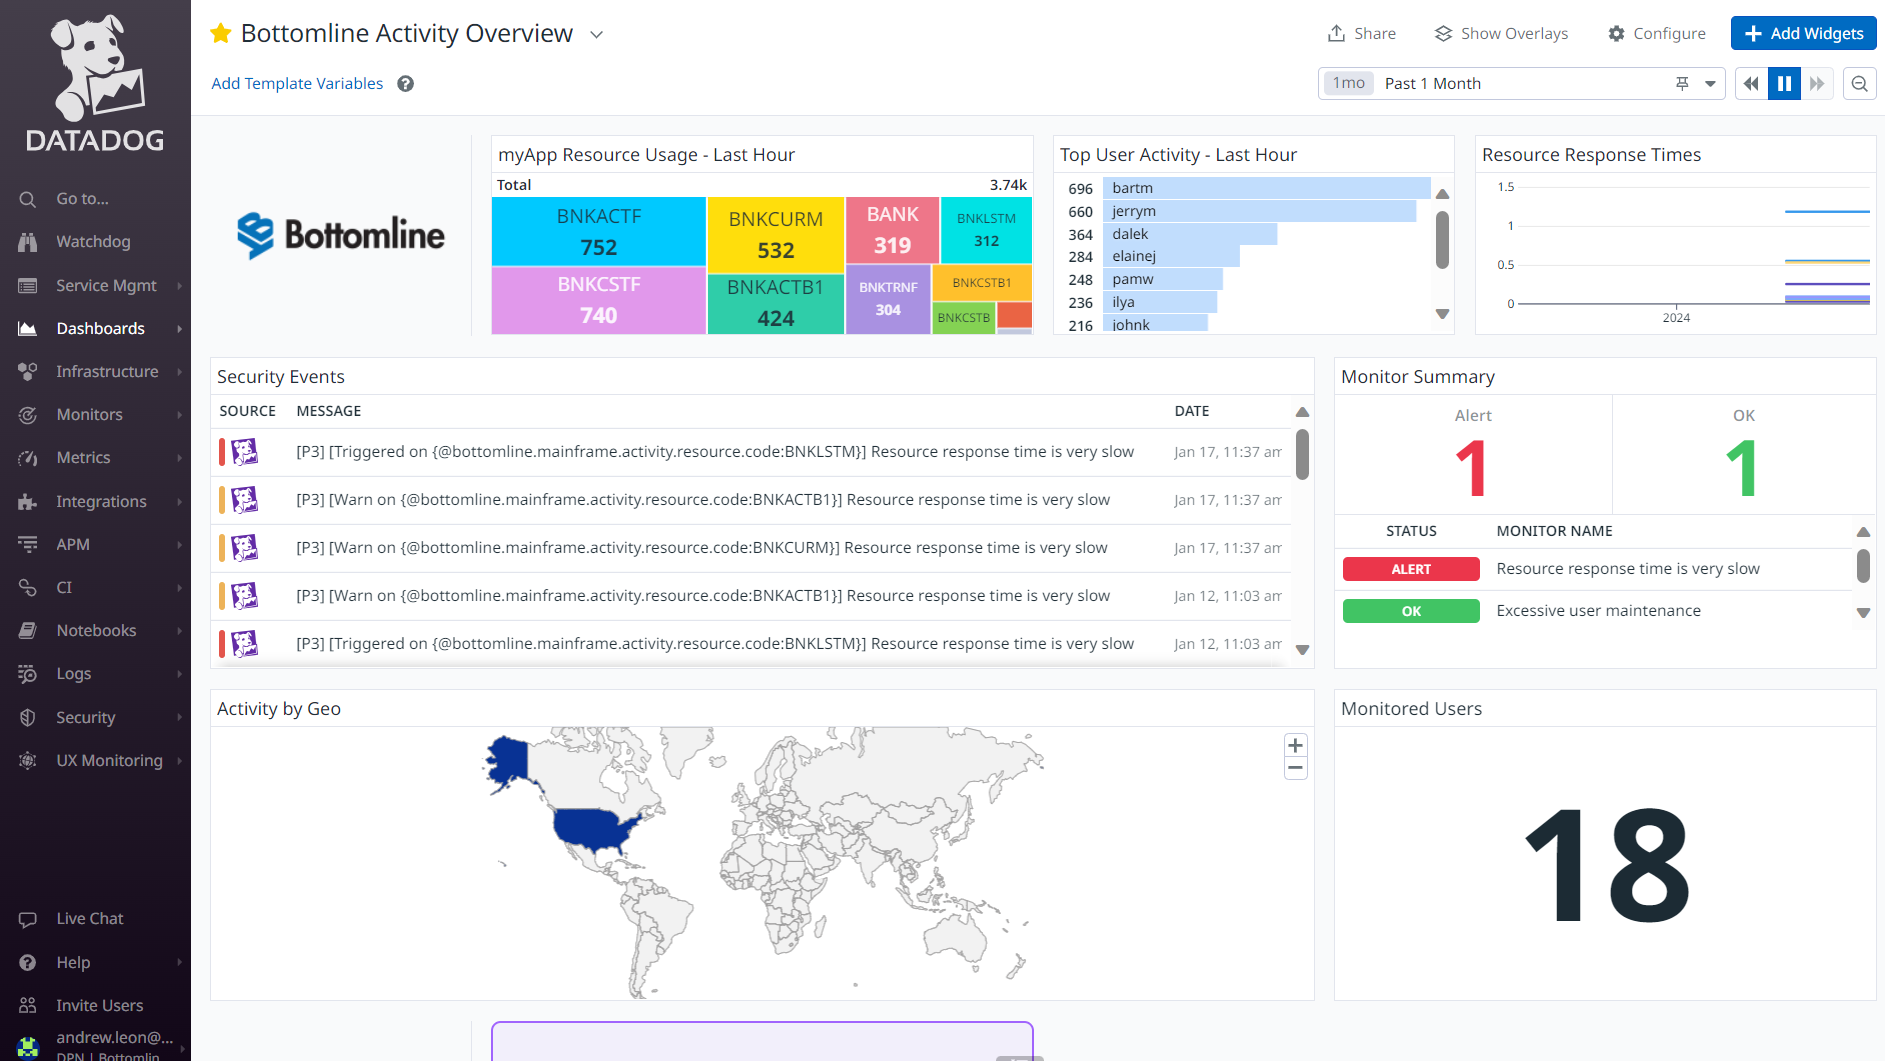
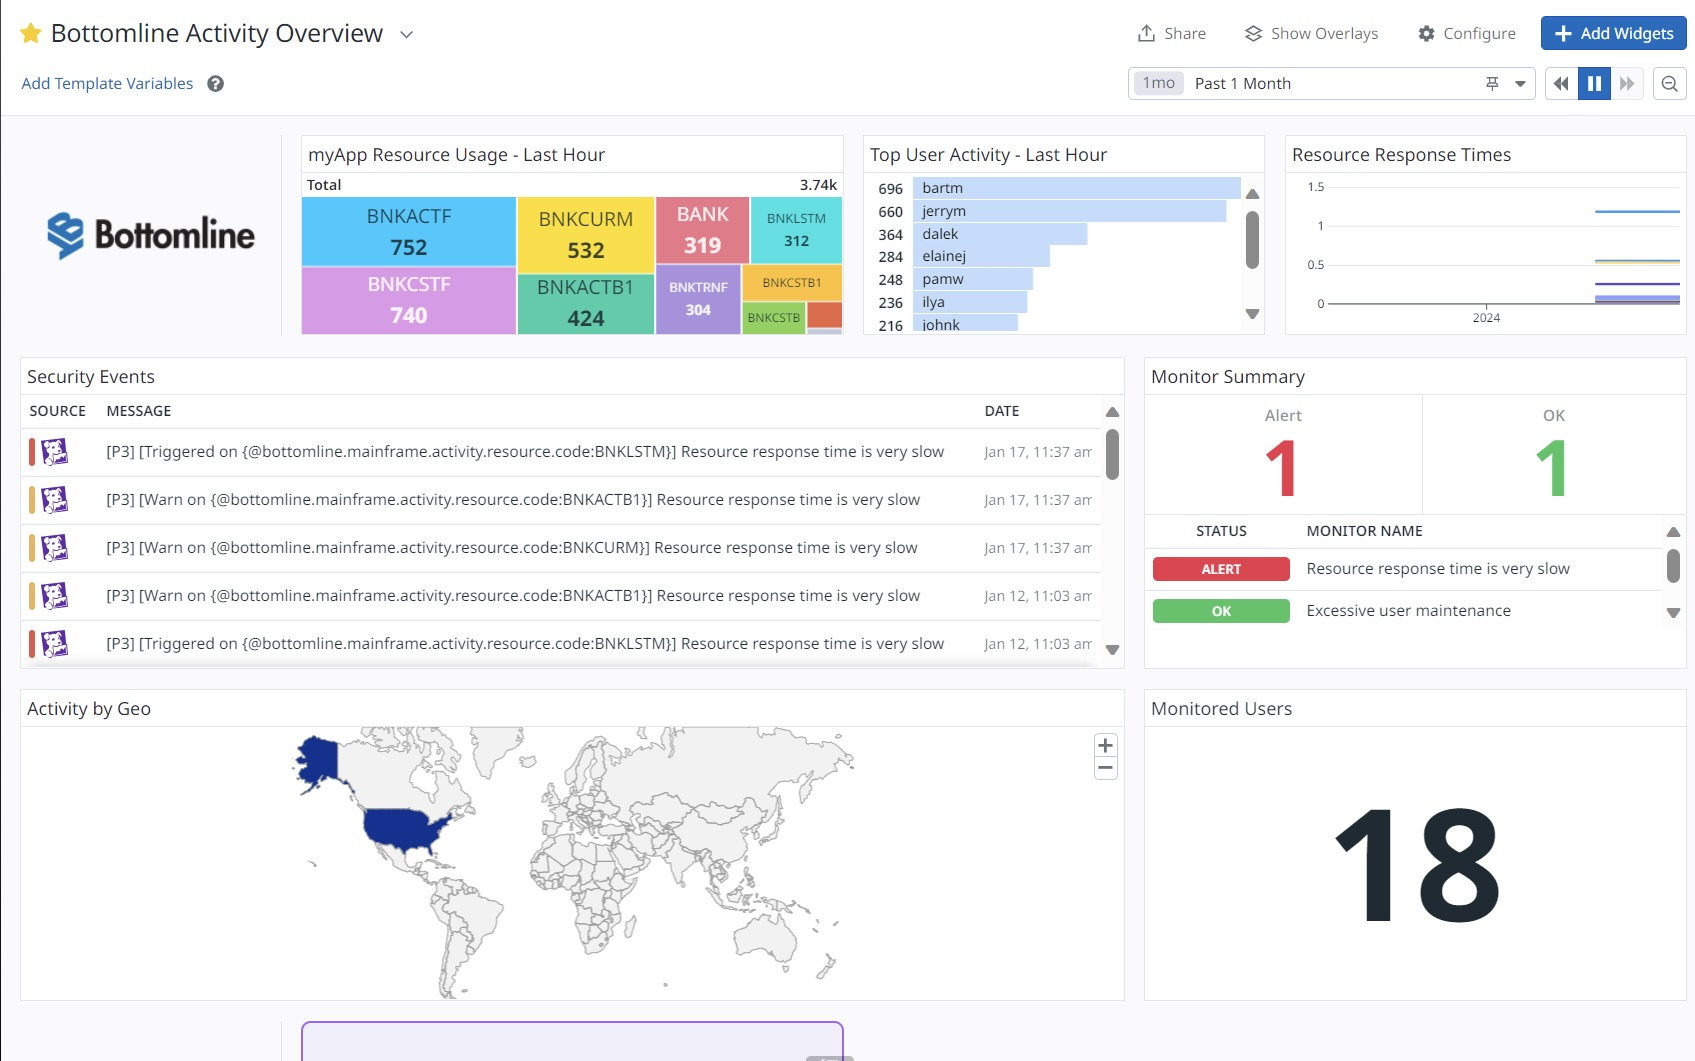
(DOCS-7761) Update images for new nav

diff --git a/apache-apisix/README.md b/apache-apisix/README.md
@@ -22,7 +22,7 @@ Follow the configuration instructions below.
 
    1. First, create an account by visiting the [Datadog website][8] and click on the Get Started Free button.
    2. Generate an API Key.
-      ![Generate an API Key](https://raw.githubusercontent.com/DataDog/integrations-extras/master/apache-apisix/images/screenshot_1.png)
+      ![Generate an API Key](https://raw.githubusercontent.com/DataDog/integrations-extras/master/apache-apisix/images/datadog_api_key.png)
 
 3. The APISIX-Datadog plugin requires only the DogStatsD component of `datadog/agent` as the plugin asynchronously send metrics to the DogStatsD server following the statsd protocol over standard UDP socket. That's why APISIX recommends using the standalone `datadog/dogstatsd` image instead of using the full agent. It's extremely lightweight (only ~11 MB in size) compared to ~2.8GB of `datadog/agent` image.
 

diff --git a/appkeeper/README.md b/appkeeper/README.md
@@ -55,7 +55,7 @@ Need help? Contact [Datadog support][9].
 
 [1]: https://raw.githubusercontent.com/DataDog/integrations-extras/master/appkeeper/images/get_token.jpg
 [2]: https://app.datadoghq.com/account/settings#integrations/webhooks
-[3]: https://raw.githubusercontent.com/DataDog/integrations-extras/master/appkeeper/images/payload_header.jpg
+[3]: https://raw.githubusercontent.com/DataDog/integrations-extras/master/appkeeper/images/payload_header_2.png
 [4]: https://app.datadoghq.com/synthetics/list
 [5]: https://raw.githubusercontent.com/DataDog/integrations-extras/master/appkeeper/images/synthetic_test_params.png
 [6]: https://raw.githubusercontent.com/DataDog/integrations-extras/master/appkeeper/images/history.jpg

diff --git a/configcat/README.md b/configcat/README.md
@@ -49,7 +49,7 @@ Need help? See the [ConfigCat documentation][6] or contact [ConfigCat support][7
 [1]: https://raw.githubusercontent.com/DataDog/integrations-extras/master/configcat/images/datadog_apikey.png
 [2]: https://configcat.com
 [3]: https://raw.githubusercontent.com/DataDog/integrations-extras/master/configcat/images/datadog_event.png
-[4]: https://raw.githubusercontent.com/DataDog/integrations-extras/master/configcat/images/datadog_filtering.png
+[4]: https://raw.githubusercontent.com/DataDog/integrations-extras/master/configcat/images/datadog_filtering_2.png
 [5]: https://app.configcat.com
 [6]: https://configcat.com/docs/integrations/datadog/
 [7]: https://configcat.com/support
